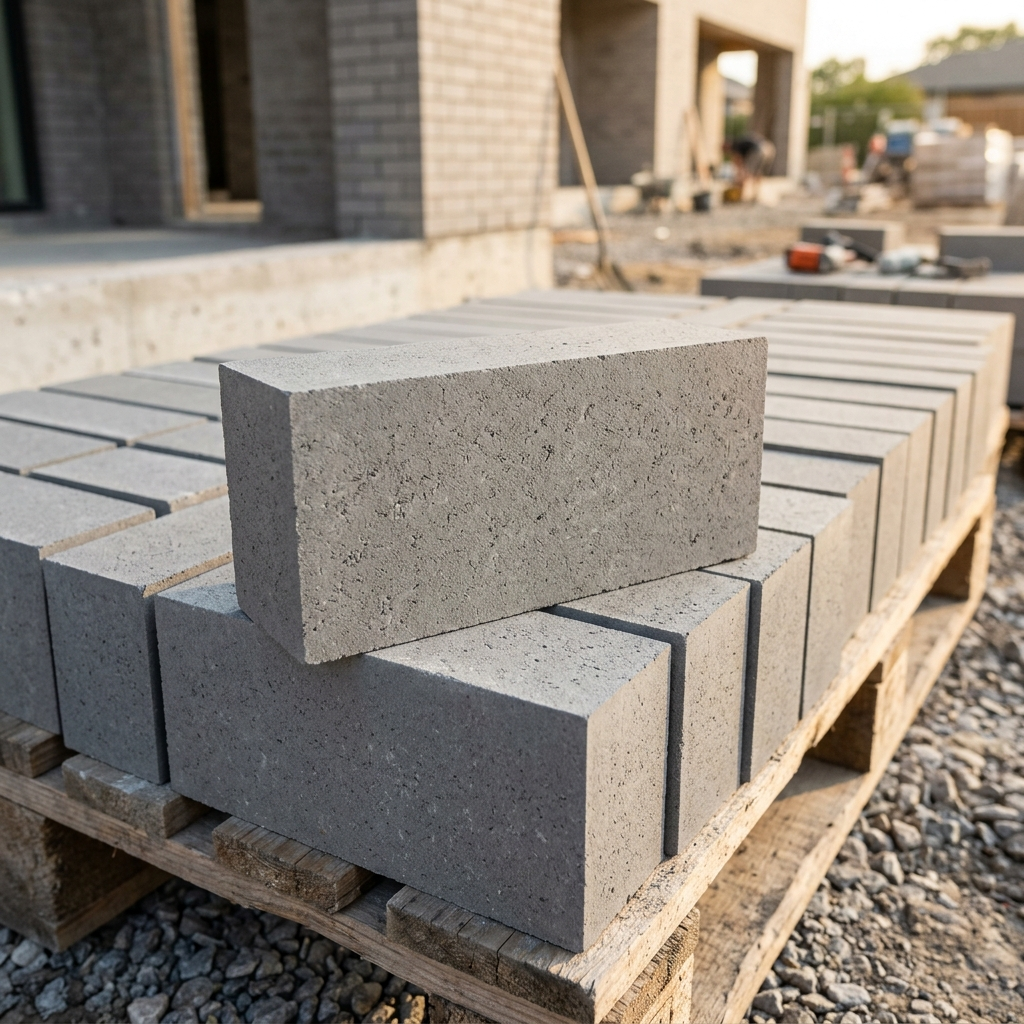
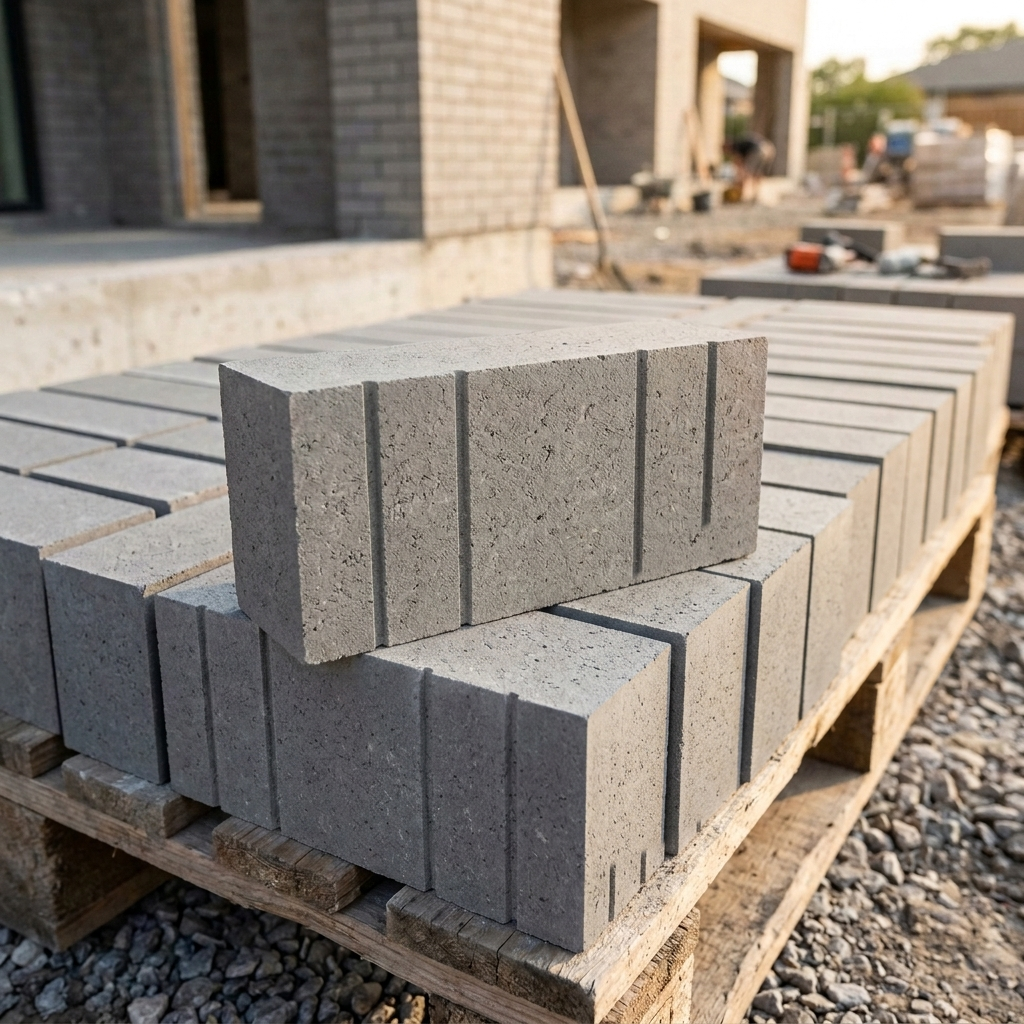
updates of gallery

diff --git a/src/pages/gallery.tsx b/src/pages/gallery.tsx
@@ -43,7 +43,7 @@ const getDirectImageUrl = (urlOrItem: string | { url?: string; driveUrl?: string
 const BATCH_SIZE = 48;
 
 export const Gallery: React.FC = () => {
-    const [activeImage, setActiveImage] = useState<string | null>(null);
+    const [selectedIndex, setSelectedIndex] = useState<number | null>(null);
     const [visibleCount, setVisibleCount] = useState<number>(BATCH_SIZE);
 
     useEffect(() => {
@@ -55,17 +55,6 @@ export const Gallery: React.FC = () => {
         }
     }, []);
 
-    // Close lightbox on Escape key press
-    useEffect(() => {
-        const handleKeyDown = (e: KeyboardEvent) => {
-            if (e.key === 'Escape') {
-                setActiveImage(null);
-            }
-        };
-        window.addEventListener('keydown', handleKeyDown);
-        return () => window.removeEventListener('keydown', handleKeyDown);
-    }, []);
-
     // Extract images list and optional folderUrl from gallery.json configuration
     const config: GalleryConfig = rawGalleryData as any;
     const imagesList: (string | { url?: string; driveUrl?: string; imageName?: string })[] = 
@@ -74,6 +63,50 @@ export const Gallery: React.FC = () => {
             : (Array.isArray(config.images) ? config.images : []);
 
     const visibleImages = imagesList.slice(0, visibleCount);
+
+    const handlePrev = (e?: React.MouseEvent) => {
+        e?.stopPropagation();
+        if (selectedIndex === null || imagesList.length === 0) return;
+        setSelectedIndex((prev) => (prev !== null ? (prev - 1 + imagesList.length) % imagesList.length : null));
+    };
+
+    const handleNext = (e?: React.MouseEvent) => {
+        e?.stopPropagation();
+        if (selectedIndex === null || imagesList.length === 0) return;
+        const nextIdx = (selectedIndex + 1) % imagesList.length;
+        if (nextIdx >= visibleCount) {
+            setVisibleCount(prev => Math.min(imagesList.length, prev + BATCH_SIZE));
+        }
+        setSelectedIndex(nextIdx);
+    };
+
+    // Keyboard navigation (Escape, ArrowLeft, ArrowRight)
+    useEffect(() => {
+        const handleKeyDown = (e: KeyboardEvent) => {
+            if (selectedIndex === null) return;
+            if (e.key === 'Escape') {
+                setSelectedIndex(null);
+            } else if (e.key === 'ArrowRight') {
+                e.preventDefault();
+                setSelectedIndex((prev) => {
+                    if (prev === null) return null;
+                    const next = (prev + 1) % imagesList.length;
+                    if (next >= visibleCount) {
+                        setVisibleCount(v => Math.min(imagesList.length, v + BATCH_SIZE));
+                    }
+                    return next;
+                });
+            } else if (e.key === 'ArrowLeft') {
+                e.preventDefault();
+                setSelectedIndex((prev) => {
+                    if (prev === null) return null;
+                    return (prev - 1 + imagesList.length) % imagesList.length;
+                });
+            }
+        };
+        window.addEventListener('keydown', handleKeyDown);
+        return () => window.removeEventListener('keydown', handleKeyDown);
+    }, [selectedIndex, imagesList.length, visibleCount]);
 
     return (
         <div className="gallery-page-wrapper">
@@ -94,7 +127,7 @@ export const Gallery: React.FC = () => {
                             <div 
                                 key={index} 
                                 className="gallery-card"
-                                onClick={() => setActiveImage(imgUrl)}
+                                onClick={() => setSelectedIndex(index)}
                             >
                                 <div className="gallery-card-image-wrapper">
                                     <img 
@@ -103,7 +136,7 @@ export const Gallery: React.FC = () => {
                                         className="gallery-card-img" 
                                         loading="lazy"
                                         onError={(e) => {
-                                            const target = e.currentTarget;
+                                             const target = e.currentTarget;
                                             if (target.src.includes('lh3.googleusercontent.com/d/')) {
                                                 const fileId = target.src.split('/d/')[1];
                                                 if (fileId) {
@@ -142,13 +175,42 @@ export const Gallery: React.FC = () => {
                 )}
             </div>
 
-            {/* Lightbox Modal */}
-            {activeImage && (
-                <div className="lightbox-backdrop" onClick={() => setActiveImage(null)}>
+            {/* Lightbox Modal with Arrow Key Navigation */}
+            {selectedIndex !== null && (
+                <div className="lightbox-backdrop" onClick={() => setSelectedIndex(null)}>
+                    {/* Previous Button */}
+                    <button 
+                        className="lightbox-nav-btn prev" 
+                        onClick={handlePrev}
+                        aria-label="Previous Image"
+                        title="Previous Image (Left Arrow)"
+                    >
+                        <svg width="26" height="26" viewBox="0 0 24 24" fill="none" stroke="currentColor" strokeWidth="2.5" strokeLinecap="round" strokeLinejoin="round">
+                            <polyline points="15 18 9 12 15 6"></polyline>
+                        </svg>
+                    </button>
+
+                    {/* Next Button */}
+                    <button 
+                        className="lightbox-nav-btn next" 
+                        onClick={handleNext}
+                        aria-label="Next Image"
+                        title="Next Image (Right Arrow)"
+                    >
+                        <svg width="26" height="26" viewBox="0 0 24 24" fill="none" stroke="currentColor" strokeWidth="2.5" strokeLinecap="round" strokeLinejoin="round">
+                            <polyline points="9 18 15 12 9 6"></polyline>
+                        </svg>
+                    </button>
+
+                    {/* Counter Indicator */}
+                    <div className="lightbox-counter">
+                        {selectedIndex + 1} / {imagesList.length}
+                    </div>
+
                     <div className="lightbox-content image-only-modal" onClick={(e) => e.stopPropagation()}>
                         <button 
                             className="lightbox-close-btn" 
-                            onClick={() => setActiveImage(null)}
+                            onClick={() => setSelectedIndex(null)}
                             aria-label="Close Preview"
                         >
                             <svg width="20" height="20" viewBox="0 0 24 24" fill="none" stroke="currentColor" strokeWidth="2.5" strokeLinecap="round" strokeLinejoin="round">
@@ -158,8 +220,8 @@ export const Gallery: React.FC = () => {
                         </button>
                         <div className="lightbox-image-wrapper">
                             <img 
-                                src={activeImage} 
-                                alt="Gallery preview full view" 
+                                src={getDirectImageUrl(imagesList[selectedIndex])} 
+                                alt={`Gallery showcase ${selectedIndex + 1}`} 
                                 className="lightbox-img" 
                             />
                         </div>

diff --git a/public/stylesheets/gallery.css b/public/stylesheets/gallery.css
@@ -377,6 +377,79 @@
   }
 }
 
+/* Lightbox Navigation Buttons & Counter */
+.lightbox-nav-btn {
+  position: fixed;
+  top: 50%;
+  transform: translateY(-50%);
+  width: 52px;
+  height: 52px;
+  background: rgba(15, 23, 42, 0.75);
+  backdrop-filter: blur(12px);
+  border: 1px solid rgba(255, 255, 255, 0.3);
+  color: #ffffff;
+  border-radius: 50%;
+  display: flex;
+  align-items: center;
+  justify-content: center;
+  cursor: pointer;
+  transition: all 0.25s cubic-bezier(0.16, 1, 0.3, 1);
+  z-index: 10005;
+  box-shadow: 0 10px 25px rgba(0, 0, 0, 0.4);
+}
+
+.lightbox-nav-btn:hover {
+  background: #10b981;
+  border-color: #34d399;
+  transform: translateY(-50%) scale(1.12);
+  box-shadow: 0 12px 30px rgba(16, 185, 129, 0.45);
+}
+
+.lightbox-nav-btn.prev {
+  left: 30px;
+}
+
+.lightbox-nav-btn.next {
+  right: 30px;
+}
+
+.lightbox-counter {
+  position: fixed;
+  bottom: 28px;
+  left: 50%;
+  transform: translateX(-50%);
+  background: rgba(15, 23, 42, 0.8);
+  backdrop-filter: blur(10px);
+  color: #f3f4f6;
+  padding: 8px 20px;
+  border-radius: 100px;
+  font-size: 14px;
+  font-weight: 600;
+  letter-spacing: 0.05em;
+  border: 1px solid rgba(255, 255, 255, 0.2);
+  z-index: 10005;
+  box-shadow: 0 8px 24px rgba(0, 0, 0, 0.3);
+  pointer-events: none;
+}
+
+@media (max-width: 768px) {
+  .lightbox-nav-btn {
+    width: 44px;
+    height: 44px;
+  }
+  .lightbox-nav-btn.prev {
+    left: 12px;
+  }
+  .lightbox-nav-btn.next {
+    right: 12px;
+  }
+  .lightbox-counter {
+    bottom: 16px;
+    font-size: 12.5px;
+    padding: 6px 16px;
+  }
+}
+
 /* Responsive Styles */
 @media (max-width: 992px) {
   .gallery-grid {

diff --git a/src/components/footer.tsx b/src/components/footer.tsx
@@ -39,13 +39,13 @@ export const Footer: React.FC = () => {
             </p>
             <div className="footer-social-icons">
               {/* Facebook */}
-              <a href="https://facebook.com" className="footer-social-btn" target="_blank" rel="noopener noreferrer" aria-label="Facebook">
+              <a href="https://www.facebook.com/share/1F93oHmS6F/" className="footer-social-btn" target="_blank" rel="noopener noreferrer" aria-label="Facebook">
                 <svg width="18" height="18" viewBox="0 0 24 24" fill="none" stroke="currentColor" strokeWidth="2" strokeLinecap="round" strokeLinejoin="round">
                   <path d="M18 2h-3a5 5 0 0 0-5 5v3H7v4h3v8h4v-8h3l1-4h-4V7a1 1 0 0 1 1-1h3z" />
                 </svg>
               </a>
               {/* Instagram */}
-              <a href="https://instagram.com" className="footer-social-btn" target="_blank" rel="noopener noreferrer" aria-label="Instagram">
+              <a href="https://www.instagram.com/tnfapmfga/" className="footer-social-btn" target="_blank" rel="noopener noreferrer" aria-label="Instagram">
                 <svg width="18" height="18" viewBox="0 0 24 24" fill="none" stroke="currentColor" strokeWidth="2" strokeLinecap="round" strokeLinejoin="round">
                   <rect x="2" y="2" width="20" height="20" rx="5" ry="5" />
                   <path d="M16 11.37A4 4 0 1 1 12.63 8 4 4 0 0 1 16 11.37z" />

diff --git a/src/pages/contact-us.tsx b/src/pages/contact-us.tsx
@@ -278,7 +278,7 @@ export const Contactus = () => {
                                 >
                                     <option value="High-Strength Structural Bricks (Class 10/15)">High-Strength Structural Bricks (Class 10/15)</option>
                                     <option value="Standard Masonry Bricks (Class 7.5)">Standard Masonry Bricks (Class 7.5)</option>
-                                    <option value="Eco-Friendly Lightweight Blocks">Eco-Friendly Lightweight Blocks</option>
+                                    <option value="Eco-Friendly Lightweight Bricks">Eco-Friendly Lightweight Bricks</option>
                                     <option value="Custom Specification Bricks">Custom Specification Bricks</option>
                                     <option value="Other / General Enquiry">Other / General Enquiry</option>
                                 </select>
